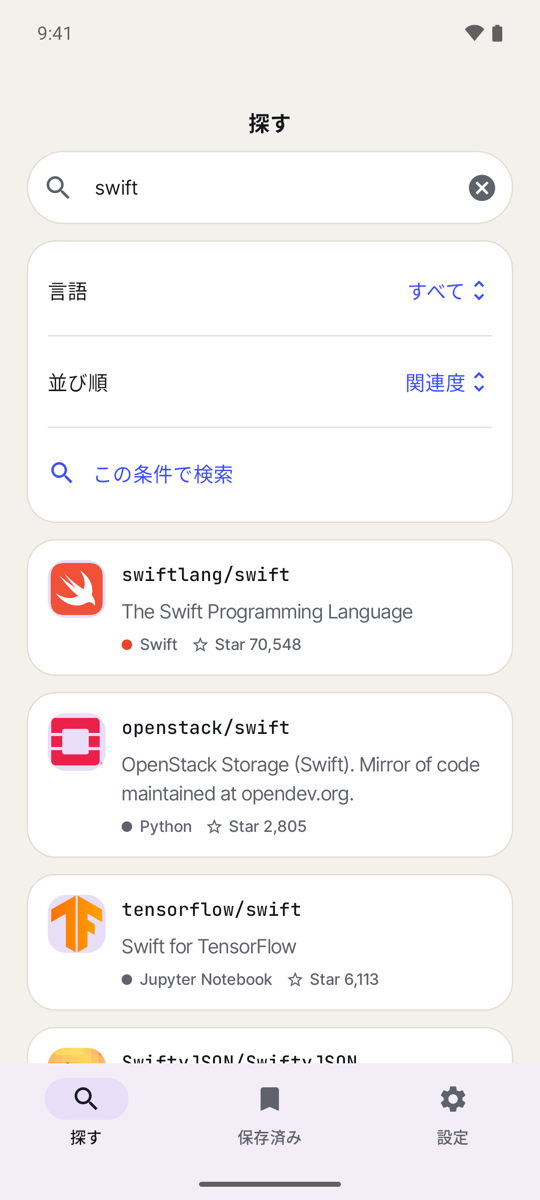
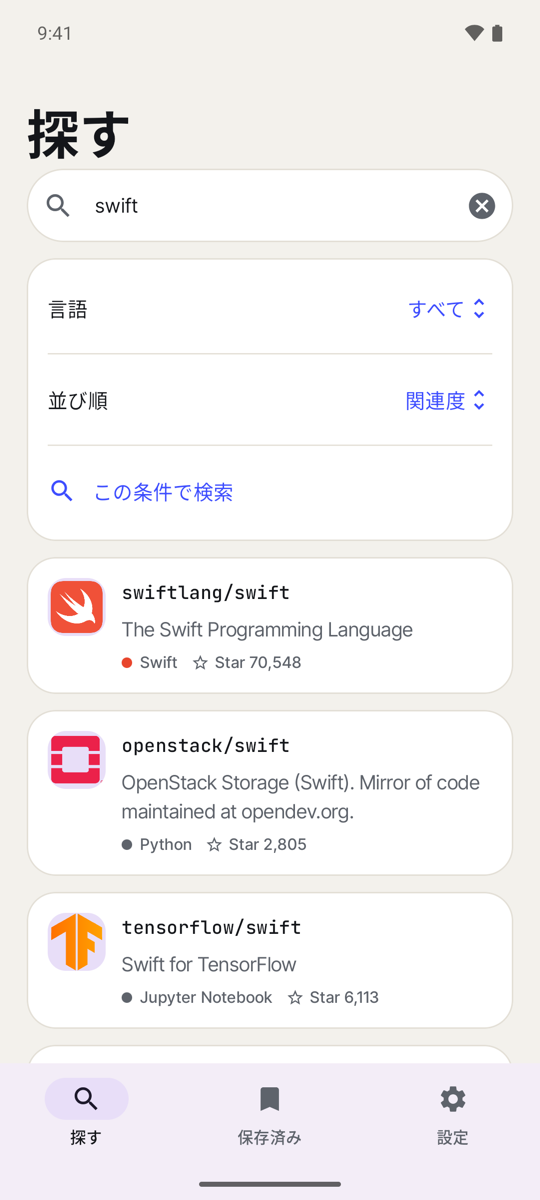
feat(design): タブの最上位 3 画面のタイトルを左寄せの大見出しにそろえる (#31)

diff --git a/modules/features/search/ios/Sources/Features/Search/Presentation/RepositorySearchView.swift b/modules/features/search/ios/Sources/Features/Search/Presentation/RepositorySearchView.swift
@@ -9,6 +9,10 @@ struct RepositorySearchView: View {
 
     var body: some View {
         List {
+            SearchField(
+                query: $viewModel.query, prompt: Message.searchPrompt.resolve(locale: locale), submit: viewModel.submit
+            )
+            .designListRow()
             Section {
                 Picker(Message.searchLanguage.resolve(locale: locale), selection: $viewModel.language) {
                     Text(Message.searchAll.resolve(locale: locale)).tag("")
@@ -59,13 +63,30 @@ struct RepositorySearchView: View {
             }
         }
         .designScreenBackground()
-        .navigationTitle(Message.searchTitle.resolve(locale: locale))
-        .searchable(
-            text: $viewModel.query, placement: .navigationBarDrawer(displayMode: .always),
-            prompt: Message.searchPrompt.resolve(locale: locale)
-        )
-        .onSubmit(of: .search, viewModel.submit)
+        .navigationTitle(Message.searchTitle.resolve(locale: locale)).navigationBarTitleDisplayMode(.large)
         .task(id: viewModel.revision) { await viewModel.loadIfNeeded() }
         .refreshable { await viewModel.refresh() }
+    }
+}
+
+/// 丸い検索欄。大見出しのタイトルと並べるため、システムの searchable ではなく一覧の中に置く。
+private struct SearchField: View {
+    @Binding var query: String
+    let prompt: String
+    let submit: () -> Void
+
+    var body: some View {
+        HStack(spacing: 8) {
+            Image(systemName: "magnifyingglass").foregroundStyle(Tokens.Color.muted)
+            TextField(prompt, text: $query).submitLabel(.search).onSubmit(submit)
+            if !query.isEmpty {
+                Button { query = "" } label: {
+                    Image(systemName: "xmark.circle.fill").foregroundStyle(Tokens.Color.muted)
+                }.buttonStyle(.plain)
+            }
+        }
+        .padding(.horizontal, Tokens.Spacing.medium).frame(minHeight: 44)
+        .background(Tokens.Color.surface, in: Capsule())
+        .overlay(Capsule().stroke(Tokens.Color.line))
     }
 }

diff --git a/modules/features/bookmarks/android/src/main/kotlin/com/example/features/bookmarks/presentation/BookmarksScreen.kt b/modules/features/bookmarks/android/src/main/kotlin/com/example/features/bookmarks/presentation/BookmarksScreen.kt
@@ -31,6 +31,7 @@ import com.example.shared.bookmarks.Bookmark
 import com.example.shared.designsystem.DesignActionRow
 import com.example.shared.designsystem.DesignCard
 import com.example.shared.designsystem.DesignIcons
+import com.example.shared.designsystem.DesignLargeTitle
 import com.example.shared.designsystem.EmptyState
 import com.example.shared.designsystem.ErrorState
 import com.example.shared.designsystem.LoadingIndicator
@@ -57,7 +58,7 @@ private fun BookmarksContent(viewModel: BookmarksViewModel) {
     var pendingDelete by remember { mutableStateOf<Bookmark?>(null) }
     LaunchedEffect(viewModel) { viewModel.load() }
     LazyColumn(contentPadding = PaddingValues(20.dp), verticalArrangement = Arrangement.spacedBy(12.dp)) {
-        item { Text(Message.CommonSaved.localized(), style = MaterialTheme.typography.headlineLarge) }
+        item { DesignLargeTitle(Message.CommonSaved.localized()) }
         if (loading) item { LoadingIndicator(Message.CommonLoading.localized()) }
         error?.let { item { ErrorState(it.localized(), Message.CommonRetry.localized(), viewModel::load) } }
         if (loaded &&

diff --git a/modules/features/search/android/src/main/kotlin/com/example/features/search/presentation/RepositorySearchScreen.kt b/modules/features/search/android/src/main/kotlin/com/example/features/search/presentation/RepositorySearchScreen.kt
@@ -49,7 +49,7 @@ import com.example.shared.designsystem.DesignActionRow
 import com.example.shared.designsystem.DesignCard
 import com.example.shared.designsystem.DesignDivider
 import com.example.shared.designsystem.DesignIcons
-import com.example.shared.designsystem.DesignNavTitle
+import com.example.shared.designsystem.DesignLargeTitle
 import com.example.shared.designsystem.DesignSectionLabel
 import com.example.shared.designsystem.ErrorState
 import com.example.shared.designsystem.RepositoryRow
@@ -78,7 +78,7 @@ private fun RepositorySearchContent(viewModel: RepositorySearchViewModel) {
     PullToRefreshBox(state.isLoading && state.hasLoaded, viewModel::refresh, Modifier.fillMaxSize()) {
         LazyColumn(contentPadding = PaddingValues(20.dp), verticalArrangement = Arrangement.spacedBy(12.dp)) {
             item {
-                DesignNavTitle(Message.SearchTitle.localized())
+                DesignLargeTitle(Message.SearchTitle.localized())
                 SearchField(form.query, { viewModel.edit(form.copy(query = it)) }, viewModel::submit)
             }
             item {

diff --git a/modules/features/settings/android/src/main/kotlin/com/example/features/settings/SettingsScreen.kt b/modules/features/settings/android/src/main/kotlin/com/example/features/settings/SettingsScreen.kt
@@ -26,6 +26,7 @@ import com.example.core.localization.Message
 import com.example.core.localization.localized
 import com.example.core.storage.DisplaySettings
 import com.example.shared.designsystem.DesignCard
+import com.example.shared.designsystem.DesignLargeTitle
 import com.example.shared.designsystem.DesignSectionLabel
 import com.example.shared.designsystem.ErrorState
 import com.example.shared.designsystem.LoadingIndicator
@@ -50,7 +51,7 @@ private fun SettingsContent(viewModel: SettingsViewModel) {
         Modifier.verticalScroll(rememberScrollState()).padding(20.dp),
         verticalArrangement = Arrangement.spacedBy(16.dp)
     ) {
-        Text(Message.SettingsTitle.localized(), style = MaterialTheme.typography.headlineLarge)
+        DesignLargeTitle(Message.SettingsTitle.localized())
         DesignSectionLabel(Message.SettingsDisplay.localized())
         DesignCard {
             Row(

diff --git a/modules/shared/designsystem/android/src/main/kotlin/com/example/shared/designsystem/DesignComponents.kt b/modules/shared/designsystem/android/src/main/kotlin/com/example/shared/designsystem/DesignComponents.kt
@@ -28,6 +28,12 @@ import androidx.compose.ui.unit.dp
 /** 押せる部品の最小の大きさ（44dp）。 */
 private val TouchTarget = 44.dp
 
+/** タブの最上位の画面（探す・保存済み・設定）の左寄せの大見出し（iOS のラージタイトル）。 */
+@Composable
+fun DesignLargeTitle(text: String) {
+    Text(text, style = MaterialTheme.typography.headlineLarge)
+}
+
 /** 画面上端の小さな中央タイトル（iOS のインライン・ナビゲーションタイトル）。戻るボタンは AppRoot が重ねる。 */
 @Composable
 fun DesignNavTitle(text: String) {

diff --git a/modules/shared/designsystem/spec.md b/modules/shared/designsystem/spec.md
@@ -40,7 +40,7 @@ On iOS 26 and later, gate Liquid Glass components with `#available` and keep the
 - Typefaces: iOS `designFont` asks `FontRegistry` for the bundled face of the token's family and weight and uses `Font.custom`, else `Font.system`; the app layer registers the fonts at startup. Android `DesignTheme` applies the body family to every Material 3 text style and sets the token families on the styles it maps; `monoTextStyle()` gives the monospaced style (Tokens' mono, else the system monospace). Navigation bars, tab bars, and other system controls keep the system typeface on both platforms.
 - iOS `designTheme()` aligns the accent color (tint) with Tokens; background/text colors and automatic system-bar appearance changes use standard SwiftUI.
 - Android `DesignTheme` builds Material 3 light/dark color schemes from Tokens, consistent with `enableEdgeToEdge()` system-bar appearance. The launch-window theme also switches through `values` / `values-night`.
-- Android has no system navigation bar, so `DesignNavTitle` draws the small centered title (iOS inline navigation title) and `AppRoot` overlays `DesignBackButton`, a round button like iOS's back button, at the same height. `DesignSectionLabel`, `DesignActionRow` (icon plus text, primary color), and `DesignDivider` mirror iOS's grouped sections and list rows. `DesignIcons` picks Material icons shaped like the SF Symbols iOS uses (star, bookmark, gear, magnifier, and so on).
+- Titles: the three top-level tab screens (Search, Saved, Settings) show a large left-aligned title (iOS large navigation title, Android `DesignLargeTitle`, h1 style). Screens pushed from them show a small centered title with a back button. On iOS both come from `navigationTitle` with `.large` or `.inline`; Android has no system navigation bar, so `DesignLargeTitle` draws the large title, `DesignNavTitle` draws the small centered title, and `AppRoot` overlays `DesignBackButton`, a round button like iOS's back button, at the same height as the small title. `DesignSectionLabel`, `DesignActionRow` (icon plus text, primary color), and `DesignDivider` mirror iOS's grouped sections and list rows. `DesignIcons` picks Material icons shaped like the SF Symbols iOS uses (star, bookmark, gear, magnifier, and so on).
 - Search filters are rows in a card (Android's dropdown opens from the row; iOS uses a menu picker), the search field is a pill with a clear button, and the issue state filter is a segmented control on both platforms. Counts are grouped with thousands separators on both platforms.
 - Before a row image loads, iOS displays a person icon and Android displays the owner's initial. Stars use an icon on iOS and a text label on Android.
 

diff --git a/modules/features/search/spec.md b/modules/features/search/spec.md
@@ -13,6 +13,8 @@ Own the Search tab and repository/issue browsing. Separate Presentation, Domain,
 | `repositoryIssues` | Issues for `owner`, `repo` |
 | `issueDetail` | Issue details for `owner`, `repo`, `number` |
 
+The Search tab's top-level screen (`repositorySearch`) shows a large left-aligned title like Saved and Settings; the screens it pushes (details, issues, issue details) show a small centered title next to the back button.
+
 Selecting a search result calls `push(repositoryDetail)`; details opens `push(repositoryIssues)`; selecting an issue calls `push(issueDetail)`. Back navigation uses `pop()`. API IDs are 64-bit integers.
 
 ## Screens and state
@@ -45,6 +47,7 @@ Selecting a search result calls `push(repositoryDetail)`; details opens `push(re
 - The iOS module is `FeatureSearch`, with implementation in `Sources/Features/Search` and tests in `Tests/Features/Search`. The Android package is `com.example.features.search`.
 - iOS uses @MainActor / Observation and per-screen @State; Android uses ViewModel / StateFlow and a ViewModelStore per Navigation 3 entry. Fetching is owned by iOS task and Android viewModelScope.
 - Public entry points are Screen on both platforms. Internal rendering uses Swift View / Kotlin Content; API acronyms are GitHubAPI / GitHubApi. Keep Domain and Data responsibilities and type names aligned.
+- The search field is a pill drawn as the first row of the list on both platforms (iOS does not use `searchable`: its always-visible drawer forces a small inline title, which conflicts with the large title of a top-level screen). It has a clear button and submits with the keyboard's search key.
 - Use iOS List / Picker and Android LazyColumn / selection chips. Support accessibility labels and text scaling. Restoring screen stacks after process termination is out of scope.
 
 ## Scenarios
